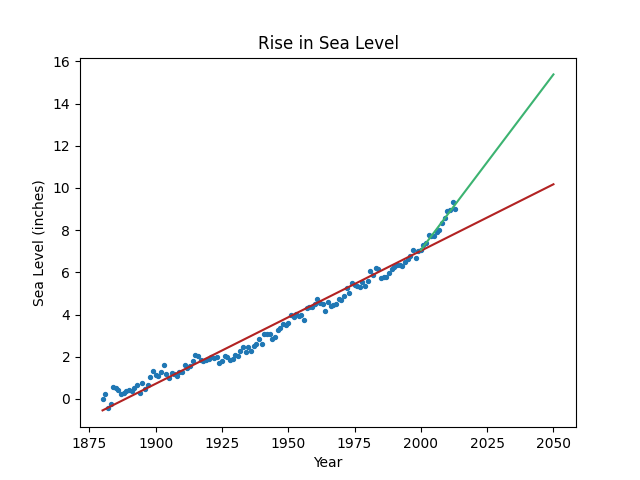
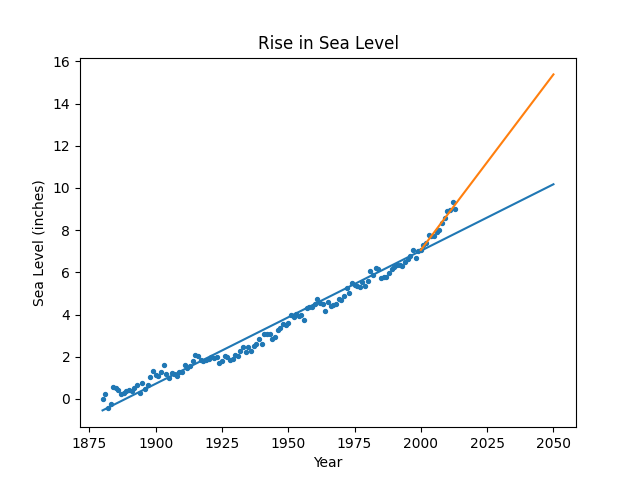
final changes

diff --git a/sea_level_predictor.py b/sea_level_predictor.py
@@ -11,20 +11,31 @@ def draw_plot():
 
     # Create scatter plot
     fig = plt.figure()
-    plt.scatter(df['Year'],df['CSIRO Adjusted Sea Level'],s=8)
+    plt.scatter(
+        df['Year'],
+        df['CSIRO Adjusted Sea Level'],s=8
+    )
 
     # Create first line of best fit
-    res1 = linregress(df['Year'], df['CSIRO Adjusted Sea Level'])
+    res1 = linregress(
+        df['Year'], 
+        df['CSIRO Adjusted Sea Level']
+    )
+
     x1 = np.arange(df['Year'].min(),2051,1)
     y1 = res1.intercept + res1.slope*x1
-    plt.plot(x1,y1,color='firebrick')
+    plt.plot(x1,y1)
 
     # Create second line of best fit
     df2 = df[df['Year']>=2000]
-    res2 = linregress(df2['Year'], df2['CSIRO Adjusted Sea Level'])
+    res2 = linregress(
+        df2['Year'], 
+        df2['CSIRO Adjusted Sea Level']
+    )
+
     x2 = np.arange(df2['Year'].min(),2051,1)
     y2 = res2.intercept + res2.slope*x2
-    plt.plot(x2,y2,color='mediumseagreen')
+    plt.plot(x2,y2)
 
     # Add labels and title
     plt.xlabel('Year')
